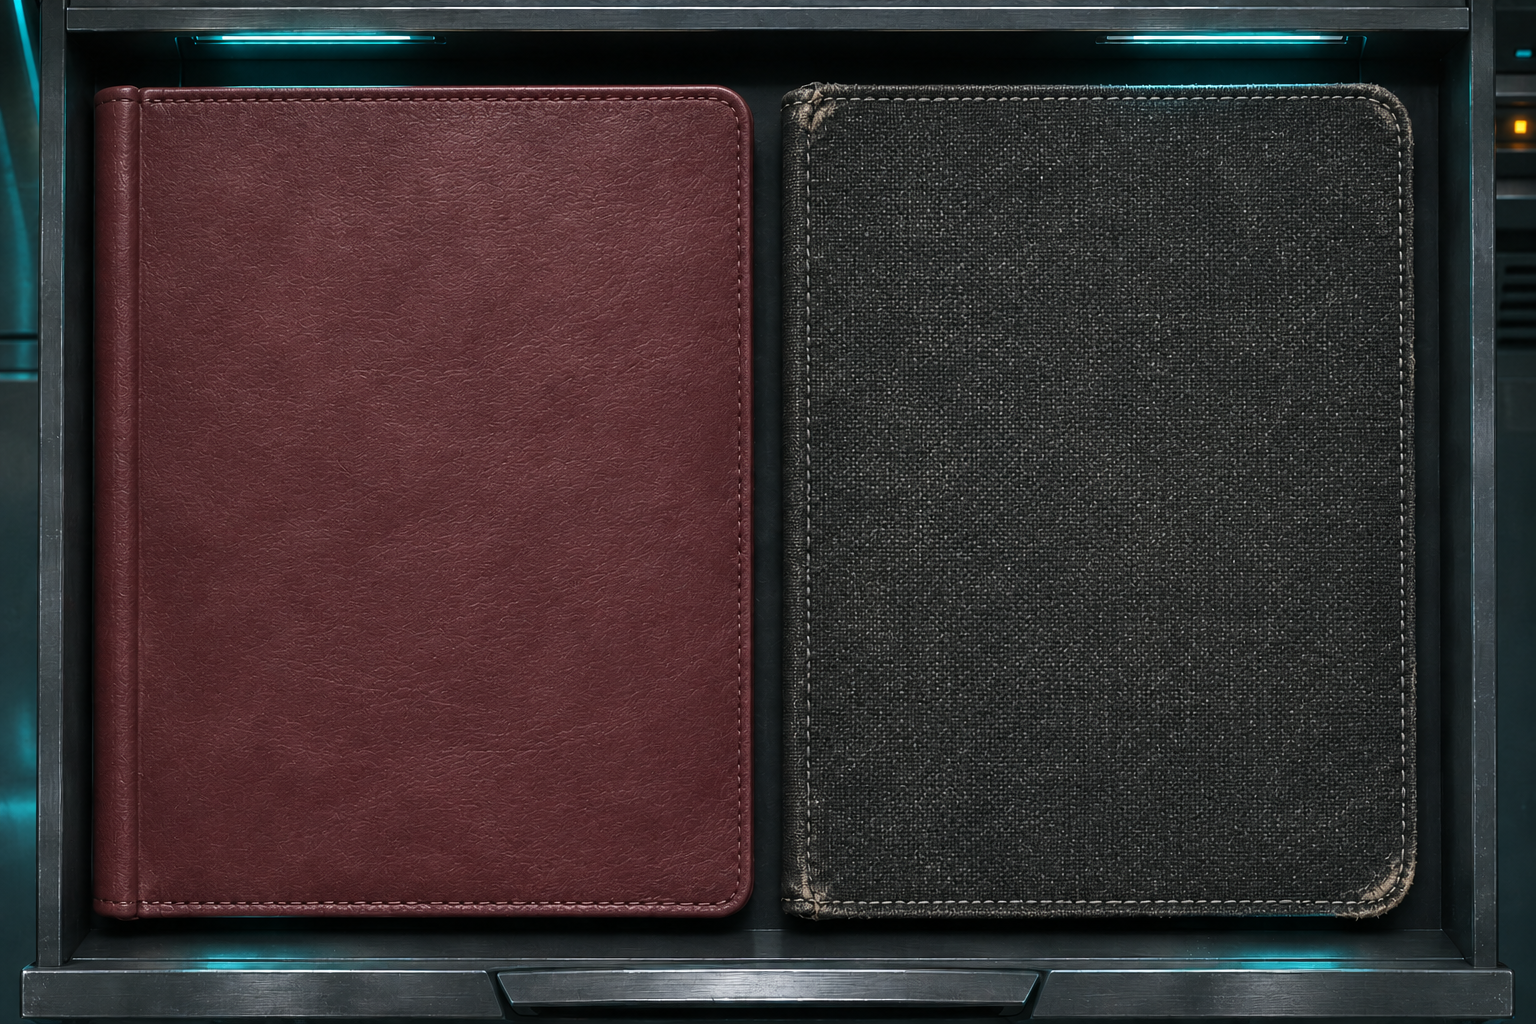
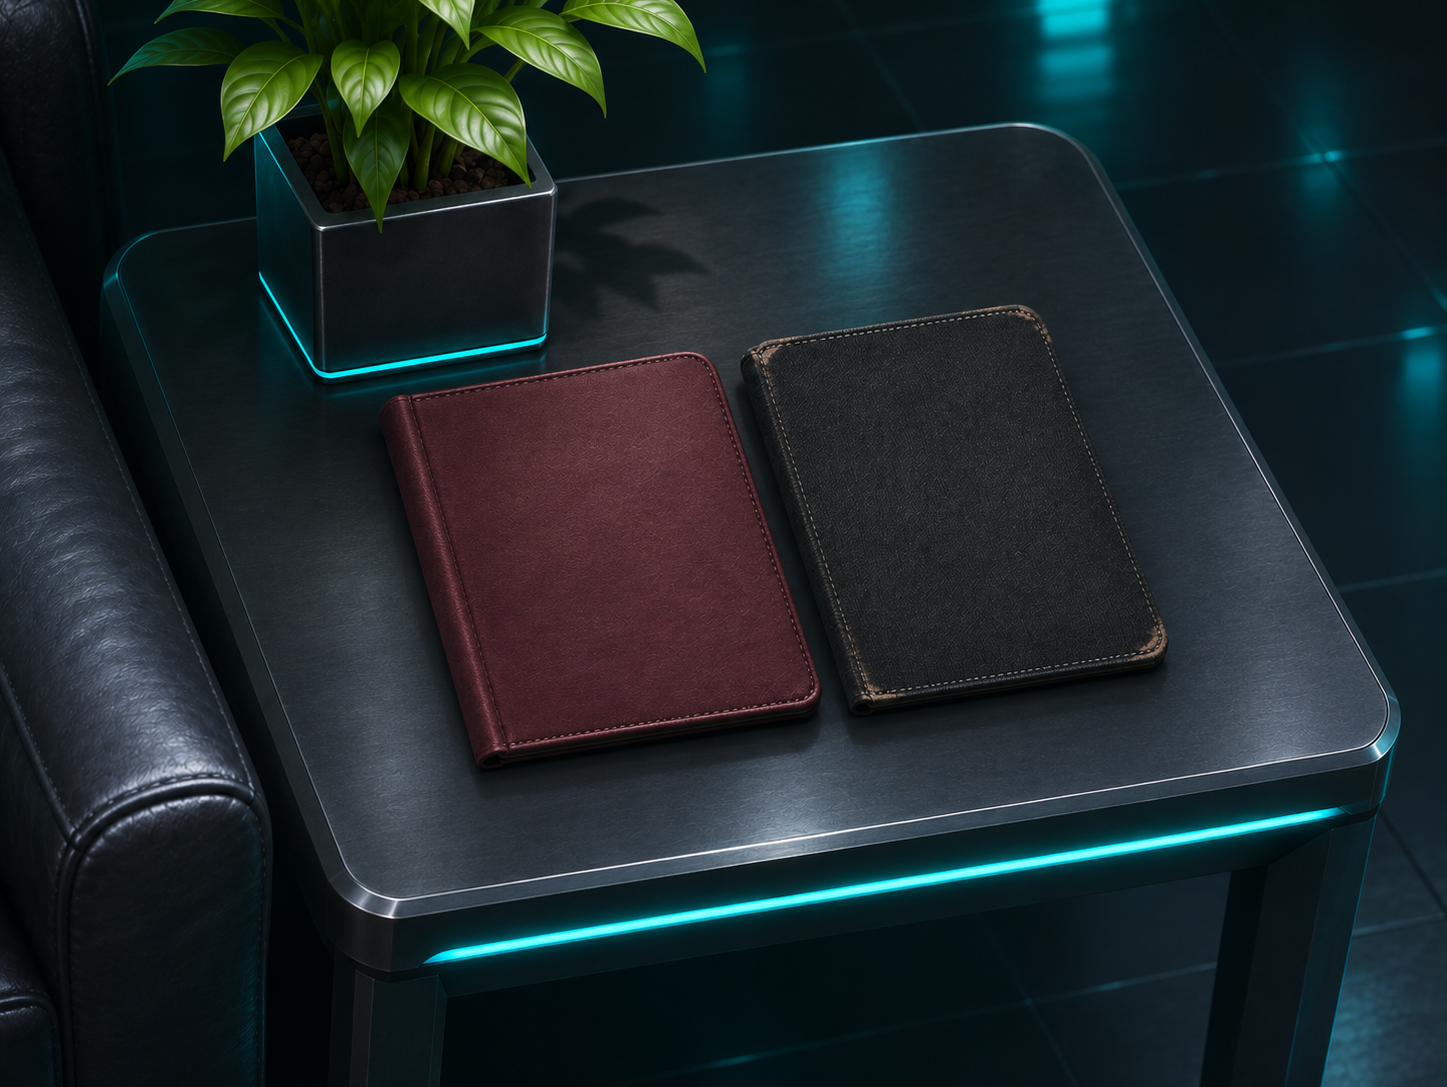
03-C 생활공간 일기 이미지 교체
- clue-03c.png 새 이미지(1447×1087)로 교체
- 수첩 칸 비율을 이미지 비율(assets.js ratio)에 맞춤, 이미지에도 ASSET_VER 버전 붙임 (9 → 10)

diff --git a/shinip/assets/assets.js b/shinip/assets/assets.js
@@ -28,14 +28,14 @@ R01.ASSETS = {
    patches.box: 이미지 안 위치 [왼쪽, 위, 너비, 높이] (%). 이미지에 그려진 글자를 설정에 맞게 덮는다
    patches.img: 글자 대신 이미지(로고)를 덮어 올린다. baseImg·hoverImg가 있으면 img는 늘 보이고, 마우스를 올렸을 때 baseImg가 hoverImg로 바뀐다 (로고 앰블럼) */
 /* 자료 HTML 문서의 버전. 단서 문서(assets/clue/*.html)를 고치면 숫자를 올린다 — 자료 창이 브라우저에 남은 예전 문서 대신 새 문서를 연다 */
-R01.ASSET_VER = '9';
+R01.ASSET_VER = '10';
 R01.CLUE_ASSETS = {
   // 03-A: 직원 명부와 업무 기록을 한 단서의 두 문서로 표시
   '03A': { kind: 'doc', html: 'assets/clue/clue-03a.html', appendix: 'assets/clue/clue-03a-worklog.html' },
   // 03-B: 사건일 4XXX.01.24 16:40 (world.md 정답 타임라인). 영상 8초 동안 16:39:30 → 16:41:30
   '03B': { kind: 'cctv', img: 'assets/clue/clue-03b.jpg', video: 'assets/clue/clue-03b.mp4', ratio: '1671 / 941',
     cam: 'CAM 02', date: '4XXX.01.24', still: ['16:39:12', '16:40:07', '16:41:03'], from: '16:39:30', to: '16:41:30' },
-  '03C': { kind: 'overlay', img: 'assets/clue/clue-03c.png', html: 'assets/clue/clue-03c.html', ratio: '1536 / 1024' },
+  '03C': { kind: 'overlay', img: 'assets/clue/clue-03c.png', html: 'assets/clue/clue-03c.html', ratio: '1447 / 1087' },
   '05A': { kind: 'doc', html: 'assets/clue/clue-05a.html' },
   '05C': { kind: 'doc', html: 'assets/clue/clue-05c.html' },
   '05D': { kind: 'doc', html: 'assets/clue/clue-05d.html', fallback: 'assets/clue/clue-05d.png' }, // png는 대체용만

diff --git a/shinip/css/base.css b/shinip/css/base.css
@@ -282,7 +282,7 @@ button,input{font:inherit;color:inherit}
 @keyframes vhsJitter{0%,100%{transform:none}37%{transform:translate(-.6%,0) skewX(-.6deg)}38%{transform:none}71%{transform:translate(.8%,.2%)}72%{transform:none}}
 @keyframes vhsFlicker{0%,100%{opacity:1}43%{opacity:.25}45%{opacity:1}80%{opacity:.6}}
 @keyframes vhsBand{0%{top:-12%}100%{top:112%}}
-.clue-over{position:relative;margin:0;aspect-ratio:1536/1024;background:#050d14 center/cover no-repeat;border:1px solid #2c3746;border-radius:4px;overflow:hidden}
+.clue-over{position:relative;margin:0;background:#050d14 center/cover no-repeat;border:1px solid #2c3746;border-radius:4px;overflow:hidden}
 .clue-over-frame{position:absolute;inset:0;width:100%;height:100%;border:0;background:transparent;color-scheme:dark;transition:opacity .25s}
 .clue-over.bare .clue-over-frame{opacity:0;pointer-events:none}
 /* 03-C: 수첩 이미지에 올리면 돋보기, 누르면 본문 */

diff --git a/shinip/js/pages.js b/shinip/js/pages.js
@@ -273,7 +273,7 @@ window.R01 = window.R01 || {};
     lens.innerHTML = LENS_SVG;                           // 고정 SVG
     const back = button('← 수첩으로', () => close(), { small: true });
     back.hidden = true;
-    const box = h('figure', { class: 'clue-over bare', style: 'background-image:url(' + a.img + ')',
+    const box = h('figure', { class: 'clue-over bare', style: 'aspect-ratio:' + a.ratio + ';background-image:url(' + a.img + (R.ASSET_VER ? '?v=' + R.ASSET_VER : '') + ')',
       role: 'button', tabindex: '0', 'aria-label': x.name + ' 펼쳐 보기' }, lens);
     const open = () => {
       if (!box.classList.contains('bare')) return;
